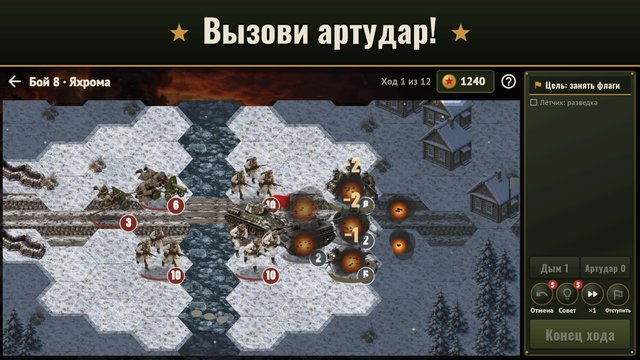
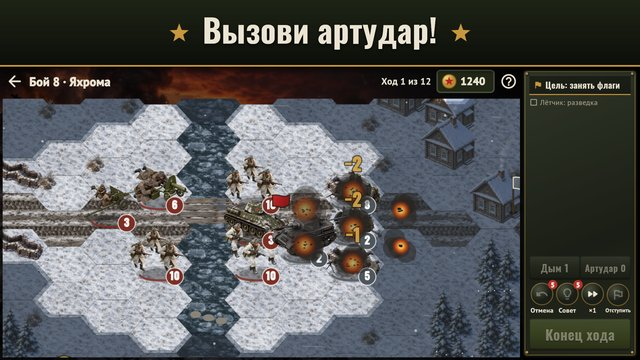
Steel Front: new screenshot (living animation), feature line

diff --git a/stalnoy-front/index.html b/stalnoy-front/index.html
@@ -40,7 +40,7 @@
 <li><b>Честный туман войны:</b> ИИ видит только то, что видят его солдаты; бои зимой и летом, весной и осенью, в снег, дождь, туман и ночью; три уровня сложности.</li>
 <li><b>Штаб между боями:</b> отряды с потерями и наградами, ветераны со званиями, бронебойные снаряды, гранаты и рации для отрядов, командиров ты знаешь по фамилиям.</li>
 <li><b>Командир</b> с деревом навыков, медали и справочник вооружения с историей каждой машины и орудия.</li>
-<li><b>Реалистичная картинка</b> под углом 45 градусов, записанные звуки выстрелов и взрывов, оркестровая музыка.</li>
+<li><b>Реалистичная картинка и живая анимация</b>: вид под углом 45 градусов, бойцы перебегают, залегают и стреляют из окон, танки разворачивают башни, дома рушатся под огнём; записанные звуки выстрелов и взрывов, оркестровая музыка.</li>
 <li><b>Автосохранение посреди боя</b>, операция дня и ежедневные задания; игра без интернета, на русском и английском.</li>
 </ul>
 </div>

diff --git a/stalnoy-front/en/index.html b/stalnoy-front/en/index.html
@@ -40,7 +40,7 @@
 <li><b>A fair fog of war:</b> the AI sees only what its soldiers see; battles in winter and summer, spring and autumn, in snow, rain, fog and at night; three difficulty levels.</li>
 <li><b>HQ between battles:</b> units keep their losses and honours, veterans earn ranks, AP rounds, grenades and radios for your units, and you know their leaders by name.</li>
 <li><b>A commander</b> with a skill tree, medals and a weapons handbook with the story of every vehicle and gun.</li>
-<li><b>Realistic art</b> seen from 45 degrees, recorded gunfire and explosions, orchestral music.</li>
+<li><b>Realistic art and living animation</b>: seen from 45 degrees, soldiers dash, go prone and fire from windows, tanks swing their turrets, houses crumble under fire; recorded gunfire and explosions, orchestral music.</li>
 <li><b>Autosave mid-battle</b>, a daily operation and daily tasks; plays offline, in English and Russian.</li>
 </ul>
 </div>
